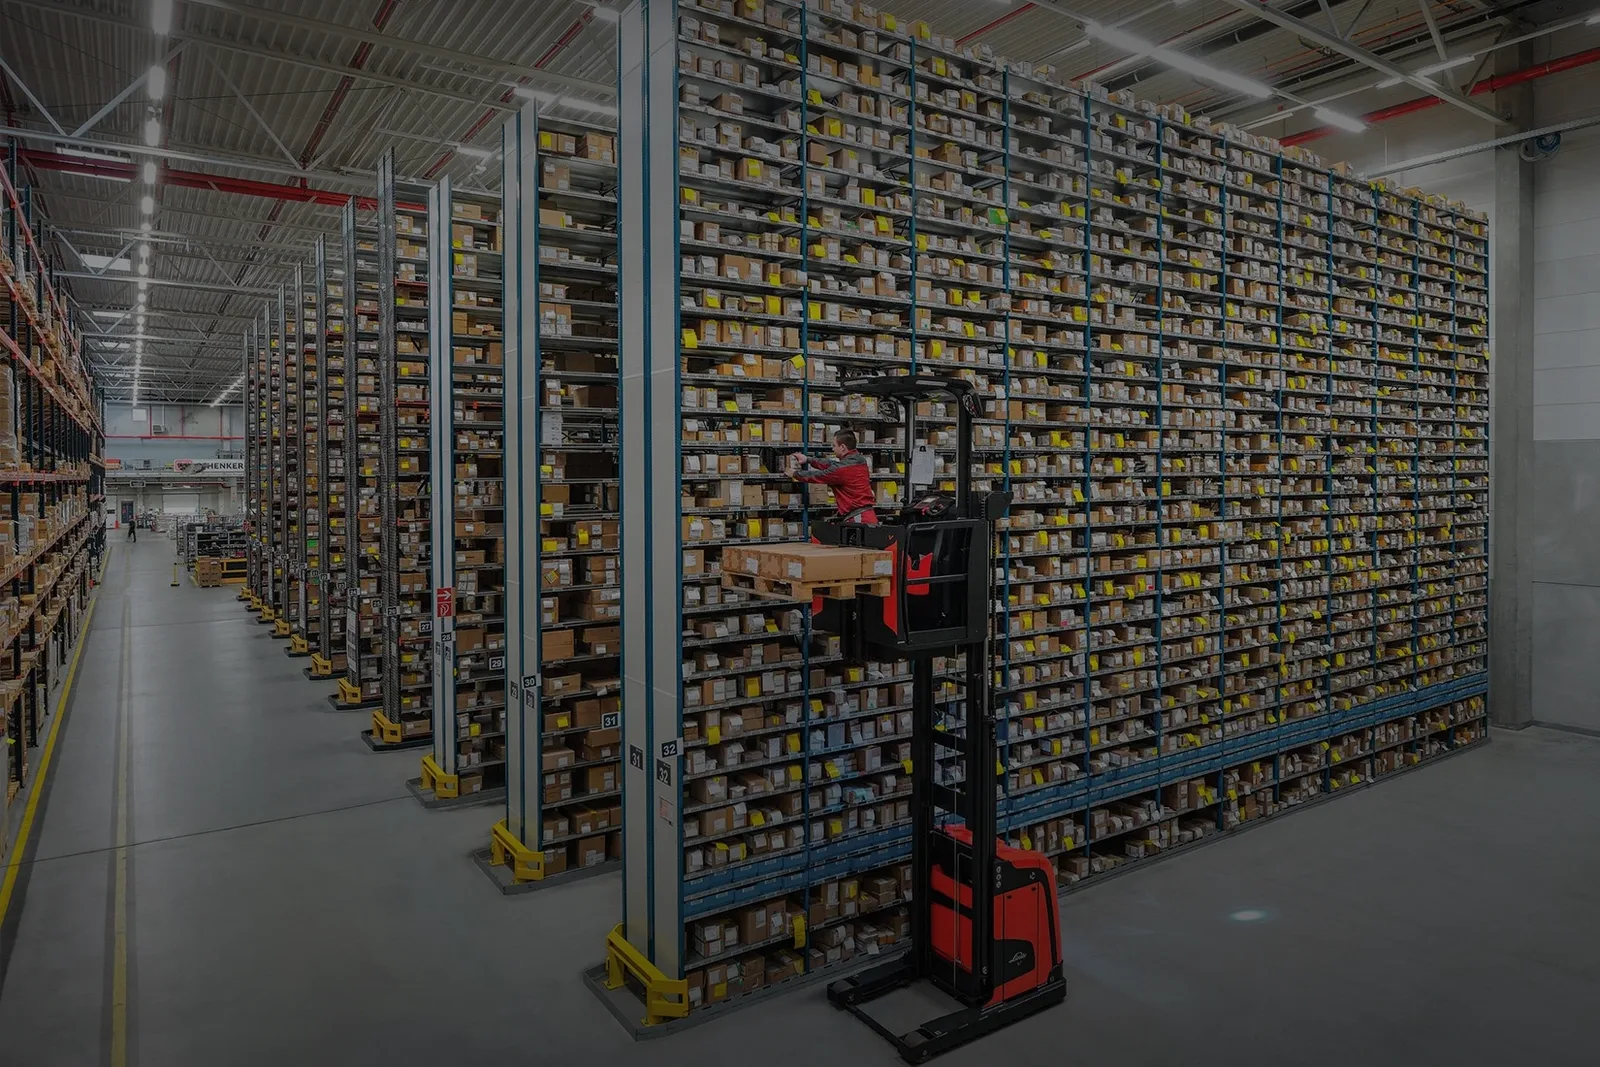
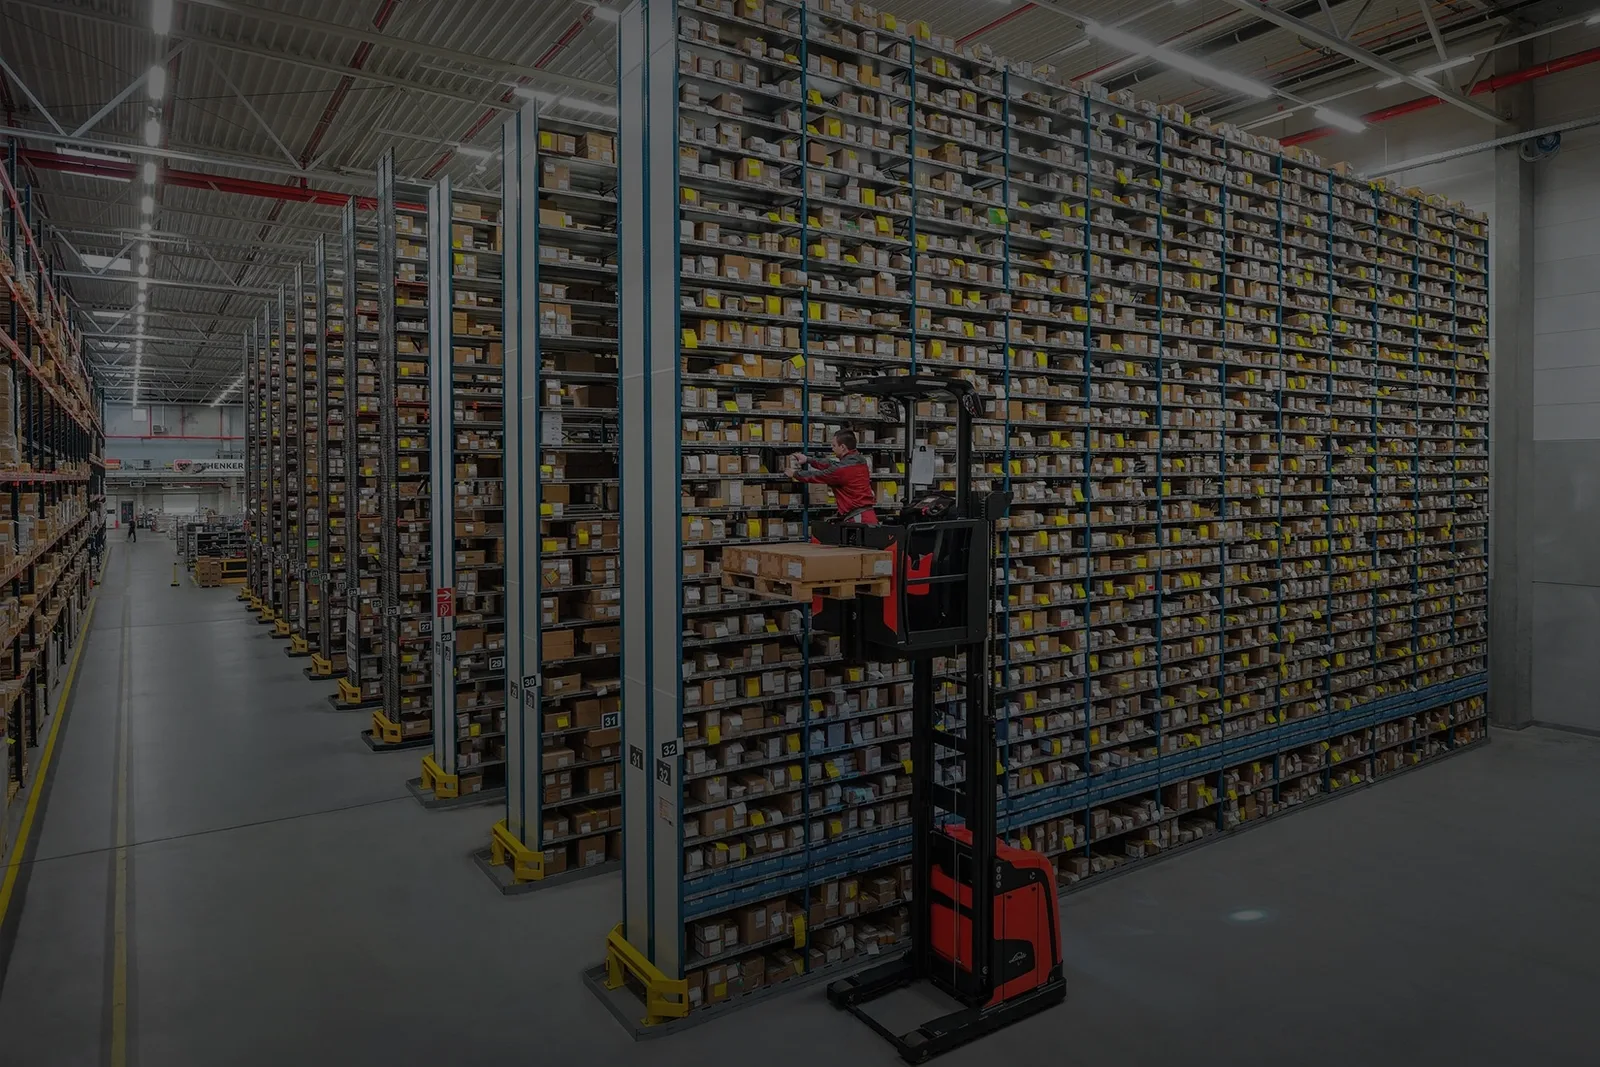
Íslyft: chat is a design only, menu focus by input type, darker split photos
Every chat question answers that the site must be bought for the answer.
Pointer opens focus the menu panel, keyboard opens the first item (no ring
on iOS). Split photos regraded so the white paragraphs clear 4.5:1.

diff --git a/src/preview/islyft/Page.tsx b/src/preview/islyft/Page.tsx
@@ -120,7 +120,7 @@ const NAV = [
   { k: 'opid', label: 'Hafa samband' },
 ]
 
-function HeaderRow({ layer, focusKey, onFocusKey, onMenu }: { layer: 'base' | 'top'; focusKey: string | null; onFocusKey: (k: string | null) => void; onMenu: () => void }) {
+function HeaderRow({ layer, focusKey, onFocusKey, onMenu }: { layer: 'base' | 'top'; focusKey: string | null; onFocusKey: (k: string | null) => void; onMenu: (e: React.MouseEvent) => void }) {
   const hidden = layer === 'top'
   const tab = hidden ? -1 : undefined
   const f = (k: string) => (hidden ? {} : { onFocus: () => onFocusKey(k), onBlur: () => onFocusKey(null) })
@@ -288,6 +288,8 @@ export default function IslyftPage() {
 
   /* menu: lock scroll, Esc closes, D14 motion */
   const menuRef = useRef<HTMLDivElement>(null)
+  /* keyboard opens focus the first item; pointer opens focus the panel itself, so nothing is ringed */
+  const menuByKey = useRef(false)
   useEffect(() => {
     const html = document.documentElement
     html.classList.toggle('il-menu', menu)
@@ -299,7 +301,8 @@ export default function IslyftPage() {
     const onKey = (e: KeyboardEvent) => { if (e.key === 'Escape') setMenu(false) }
     document.addEventListener('keydown', onKey)
     const panel = menuRef.current
-    panel?.querySelector<HTMLElement>('a,button')?.focus()
+    if (menuByKey.current) panel?.querySelector<HTMLElement>('a,button')?.focus()
+    else panel?.focus({ preventScroll: true })
     if (panel && !still()) {
       gsap.fromTo(panel, { yPercent: -100 }, { yPercent: 0, duration: 0.8, ease: 'il' })
       gsap.fromTo(panel.querySelectorAll('[data-mi]'), { y: 12, autoAlpha: 0 }, { y: 0, autoAlpha: 1, duration: 0.4, stagger: 0.07, delay: 0.3, ease: 'il' })
@@ -584,17 +587,17 @@ export default function IslyftPage() {
         </div>
         <header className="hdr">
           <div className="plate base">
-            <HeaderRow layer="base" focusKey={focusKey} onFocusKey={setFocusKey} onMenu={() => setMenu(true)} />
+            <HeaderRow layer="base" focusKey={focusKey} onFocusKey={setFocusKey} onMenu={(e) => { menuByKey.current = e.detail === 0; setMenu(true) }} />
           </div>
           <div className="plate top" ref={topPlate} aria-hidden="true">
-            <HeaderRow layer="top" focusKey={focusKey} onFocusKey={setFocusKey} onMenu={() => setMenu(true)} />
+            <HeaderRow layer="top" focusKey={focusKey} onFocusKey={setFocusKey} onMenu={(e) => { menuByKey.current = e.detail === 0; setMenu(true) }} />
           </div>
         </header>
       </div>
 
       {/* ── mobile menu ── */}
       {menu && (
-        <div className="il-menu-panel" ref={menuRef} role="dialog" aria-modal="true" aria-label="Valmynd" data-lenis-prevent="">
+        <div className="il-menu-panel" ref={menuRef} tabIndex={-1} role="dialog" aria-modal="true" aria-label="Valmynd" data-lenis-prevent="">
           <div className="mtop">
             <img src={A('logo-white.svg')} alt="Íslyft" width={144} height={26} />
             <button type="button" className="mx" onClick={() => setMenu(false)} aria-label="Loka valmynd"><X size={24} strokeWidth={1.6} aria-hidden="true" /></button>

diff --git a/src/preview/islyft/chat.ts b/src/preview/islyft/chat.ts
@@ -18,6 +18,8 @@ const quote = (key?: string): Answer => {
   return { reply: m ? `Þú getur valið ${fullName(m)} í tilboðsforminu. Tækið fylgir með þegar þú opnar formið. Formið er sýnishorn; hringdu í söludeild 514 1610 til að fá tilboð.` : 'Veldu tæki í tilboðsforminu og skráðu nafn og síma. Formið er sýnishorn; hringdu í söludeild 514 1610 til að fá tilboð.', card: { title: m ? fullName(m) : 'Fáðu tilboð', rows: [{ k: 'Söludeild', v: sales.phone }], cta: { label: 'Fáðu tilboð', href: m ? `#reynsluakstur?taeki=${encodeURIComponent(m.key)}` : '#reynsluakstur' } } }
 }
 export function answer(history: Msg[]): Answer {
+  /* Prototype: the assistant is a design only, every question gets this line. */
+  if (history.length) return { reply: 'Þú þarft að kaupa vefsíðuna af Sindra fyrir svarið.' }
   const q = fold([...history].reverse().find((m) => m.role === 'user')?.content ?? '')
   if (/opnun|opid|opnar|lokar|hours|open|leig|rent|abyrgd|warranty|fjarmogn|finance|\blan|neyd|emergency|afhending|lager|kostar|verd|price|cost/.test(q)) return refer()
   if (/hvar|heimilis|stadset|address|where/.test(q)) return { reply: 'Íslyft er að Vesturvör 32, 200 Kópavogi og Lækjarvöllum 6, 604 Akureyri.', card: { title: 'Heimilisföng', rows: CONTACT.addresses.map((v) => ({ k: 'Íslyft', v })), cta: { label: 'Kort að Vesturvör', href: LINKS.map } } }

diff --git a/src/preview/islyft/styles.ts b/src/preview/islyft/styles.ts
@@ -35,6 +35,7 @@ html.il-menu,html.il-menu body{overflow:hidden}
 .il .sr{position:absolute;width:1px;height:1px;overflow:hidden;clip:rect(0 0 0 0);white-space:nowrap}
 .il .skip{position:fixed;left:16px;top:-120px;z-index:300;background:var(--r);color:#fff;padding:12px 18px;border-radius:4px;font-weight:600}
 .il .skip:focus{top:16px}
+.il-menu-panel:focus{outline:none}
 .il section[id]{scroll-margin-top:84px}
 .il .wrap{width:100%;max-width:1440px;margin:0 auto;padding-inline:var(--pad)}
 .il .tab,.il .up,.il .tel,.il .pr{font-variant-numeric:tabular-nums}
